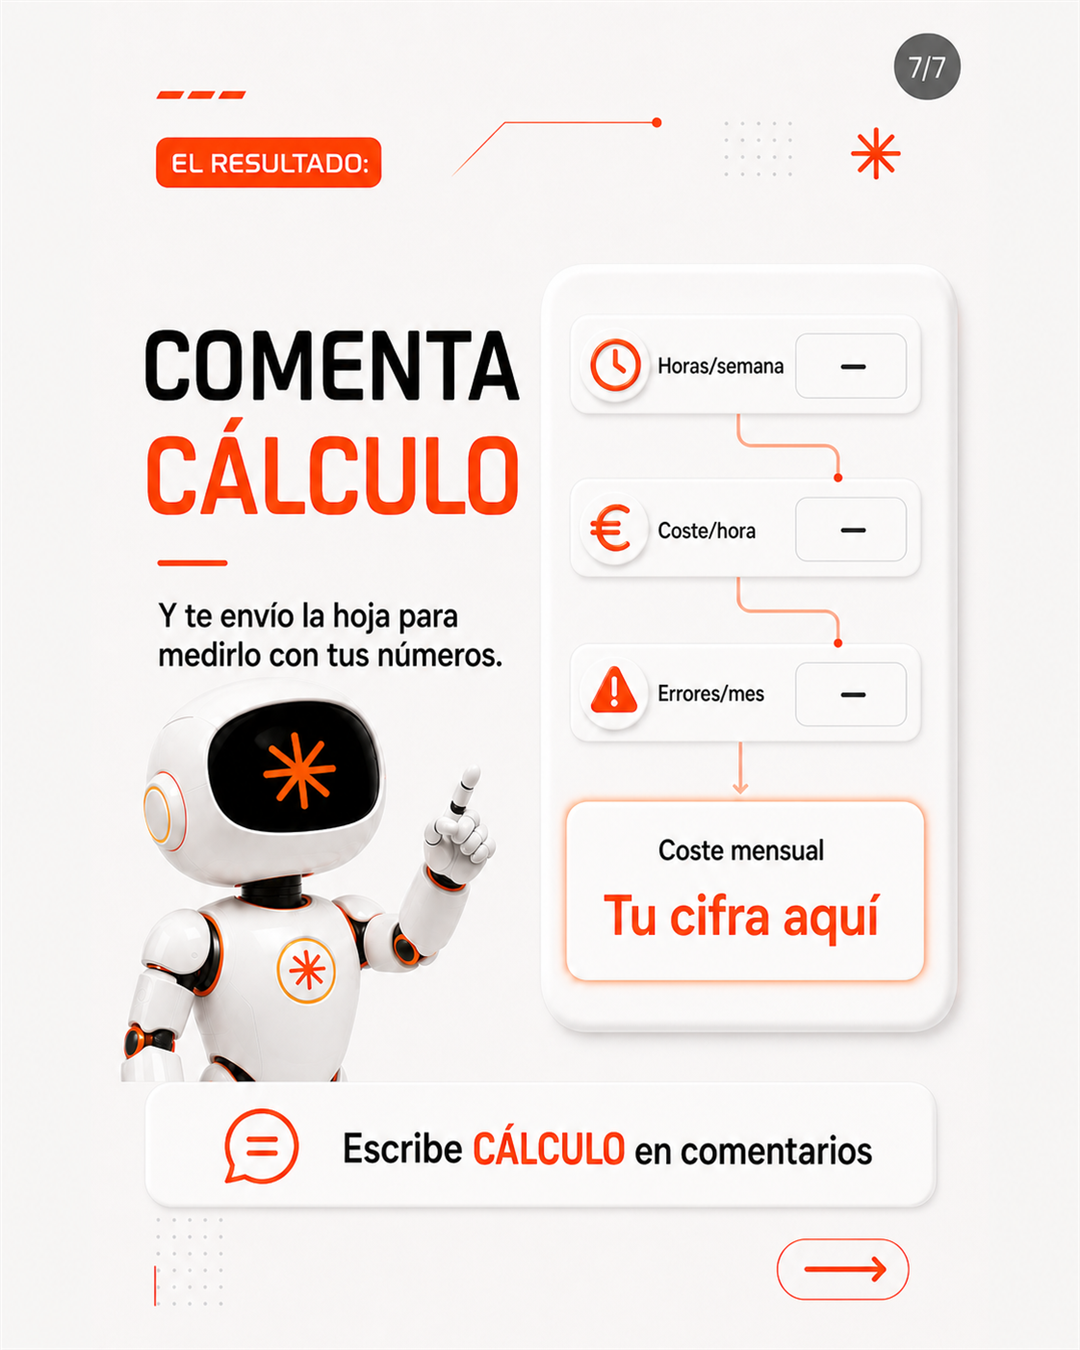
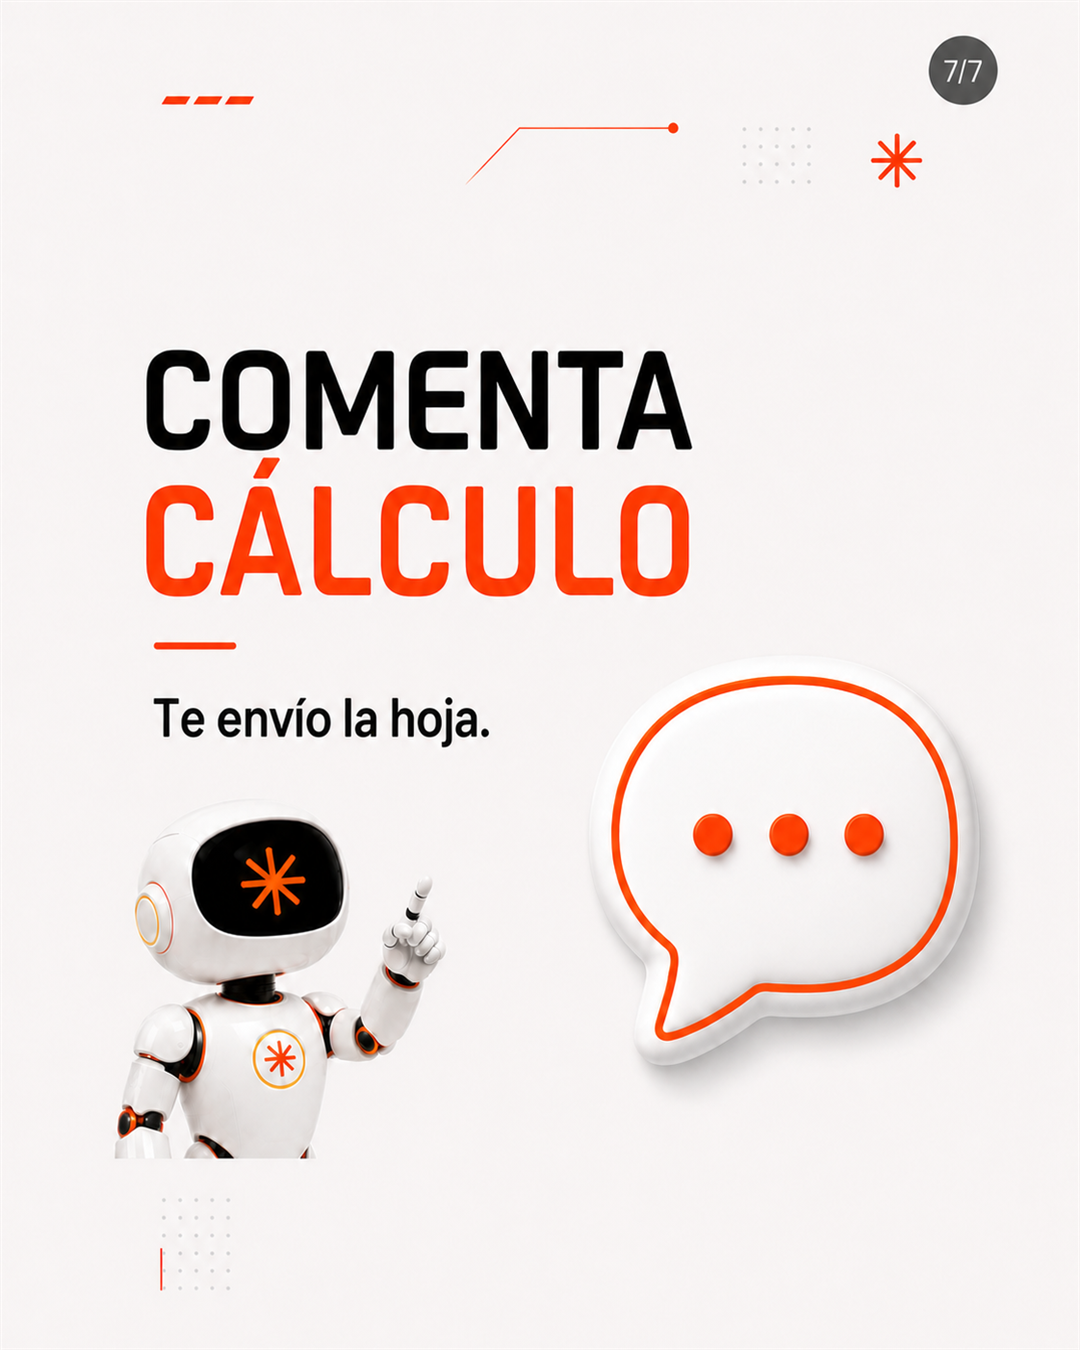
Simplify CTA slides and prevent visual repetition

diff --git a/.agents/skills/content-loop/SKILL.md b/.agents/skills/content-loop/SKILL.md
@@ -21,6 +21,8 @@ Operar el motor determinista del repositorio. No duplicar reglas de `content-os/
    - Mantener el ADN visual, pero variar de forma sutil la cantidad de slides, jerarquía, posición de tarjetas, diagramas, robot y espacio negativo según el contenido.
    - No reutilizar automáticamente la misma secuencia de layouts entre publicaciones.
    - La última slide debe ejecutar el CTA real. Si el CTA es `Comenta X`, debe mostrar `COMENTA X` y explicar qué recibe la persona.
+   - El CTA es un cierre, no otra slide educativa: máximo dos bloques de texto y un único apoyo visual simple.
+   - Prohibido repetir en el CTA calculadoras, gráficos, listas, formularios, métricas u objetos explicativos ya usados antes.
 8. Abrir la hoja de contacto final y revisarla visualmente contra las referencias.
 9. Ejecutar `npm run content:validate` después de cualquier corrección.
 10. Aceptar únicamente cuando `qa.json` indique `APPROVED`, `honesty.passed` sea `true`, los copys superen los mínimos y existan todos los assets GPT Image 2.0.

diff --git a/content-os/system/SYSTEM_PROMPT.md b/content-os/system/SYSTEM_PROMPT.md
@@ -59,4 +59,5 @@ Devuelve datos estructurados que cumplan el contrato del motor. El loop termina 
 - Redacta Instagram y LinkedIn por separado. Instagram necesita al menos 180 palabras y LinkedIn 250, salvo que el formato concreto justifique documentalmente una excepción.
 - Exige hook, escena reconocible, dato con contexto, postura de Mario, desarrollo útil y CTA coherente. Un resumen corto del carrusel no es un copy publicable.
 - Resuelve el CTA desde la etapa y el objetivo concreto. La última slide debe mostrar la acción exacta y, si se entrega un recurso, qué recibirá la persona. No cierres con una frase genérica cuando el copy pide comentar una palabra.
+- La slide CTA tiene una sola función. Usa como máximo dos bloques de texto y un apoyo visual simple. No repitas calculadoras, métricas, listas, diagramas ni formularios mostrados en slides anteriores.
 - Si falta `imagegen.json`, `humanizer.json` o alguno de los PNG finales, bloquea la ejecución.